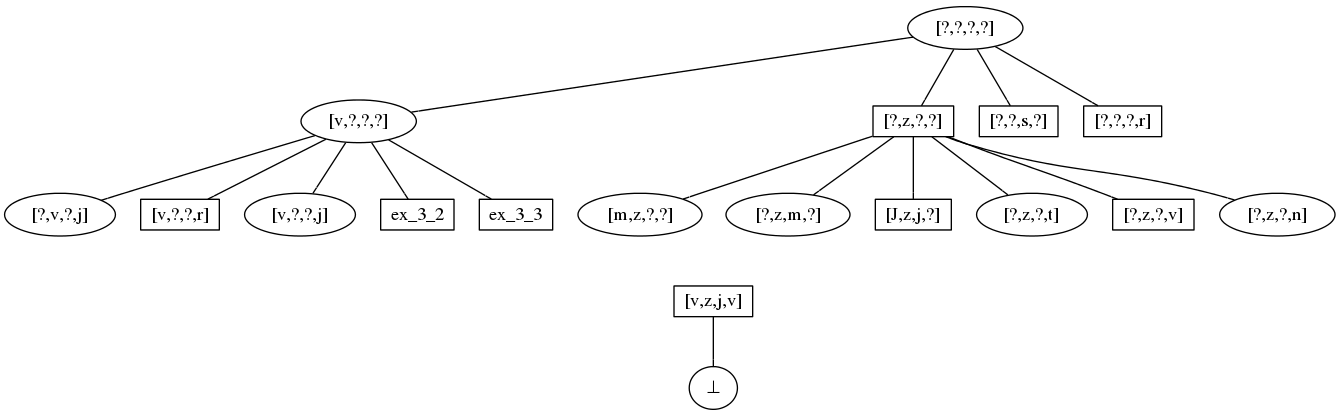
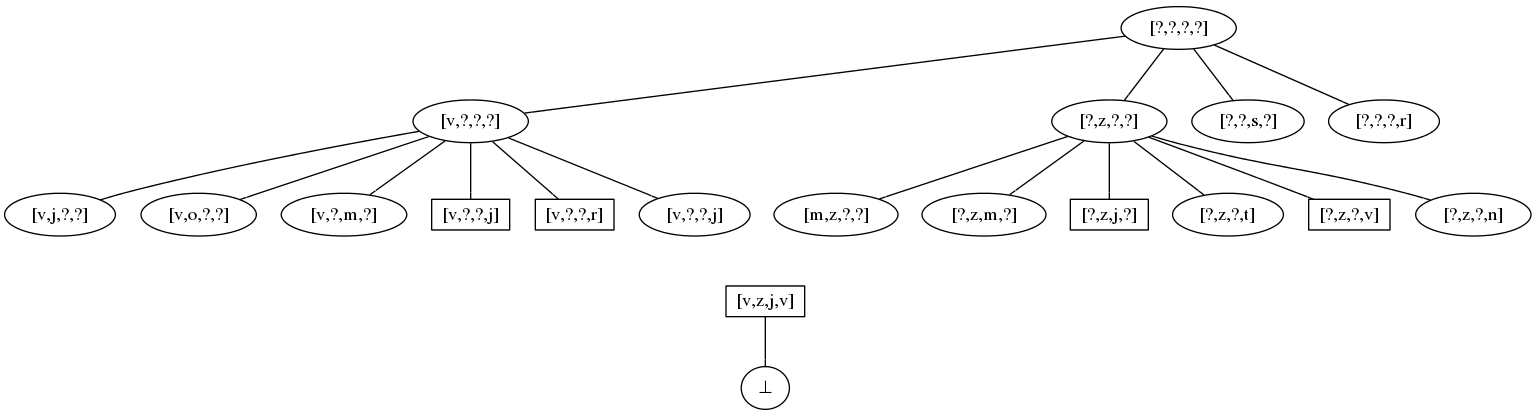
corrected question 2

diff --git a/ai_vraag_2.tex b/ai_vraag_2.tex
@@ -25,8 +25,8 @@ geslacht & leeftijd & muziek & sport & beoordeling\\
 vrouw & zelfde & jazz & voetbal & +\\
 man & jonger & pop & joggen & -\\%
 vrouw & ouder & pop & fitness & -\\
-vrouw & zelfde & klassiek & golf & +\\
-vrouw & jonger & latin & tennis & +\\
+vrouw & jonger & klassiek & golf & +\\
+vrouw & zelfde & latin & tennis & +\\
 \hline
 \end{tabular}
 \end{figure}
@@ -97,13 +97,14 @@ Aan het eind van de dag komt er een dame binnen die jonger is dan de cli\"ent, n
 
 \section{Modeloplossing}
 % TODO toevoegen wat S is, wat G is, wat de vormen van de nodes betekenen.
-We voeren het version-spaces algoritme uit op de voorbeelden uit de opgave. We beginnen met het initialiseren van $S$ en $G$. $S$ bevat initieel enkel de hypothese die niets aanvaardt. $G$ daarentegen, bevat de hypothese die alles aanvaardt.
+We voeren het version-spaces algoritme uit op de voorbeelden uit de opgave (zie \ref{versionspaces}). We beginnen met het initialiseren van $S$ en $G$. $S$ bevat initieel enkel de hypothese die met alles inconsistent is. $G$ daarentegen, bevat de hypothese die met alles consistent is.
 \[
 S = \{\bot\}
 \]
 \[
 G = \{[?,?,?,?]\}
 \]
+De hypothesen die in $S$ en $G$ zitten zijn na elke iteratie getekend in een graaf. De graag bestaat uit twee bomen waarvan de bovenste $S$ voorstelt en de onderste $G$. Niet alle hypothesen die getekend zijn zitten echter in $G$ of in $S$. Als een hypothese niet in \'e\'en van de verzamelingen zit wordt het met een ellips afgebeeld. De rechthoekige nodes zitten wel in $G$ of $S$.
 \subsection{Iteratie 1}
 \begin{figure}
 [H]
@@ -113,6 +114,10 @@ G = \{[?,?,?,?]\}
 \includegraphics[scale=0.5]{resources/graphs/iteration_1.png}
 \end{figure}
 Het eerste voorbeeld is een positief voorbeeld. We generaliseren alle hypothesen in $S$ waaraan het voorbeeld niet voldoet. $\bot$ wordt dus gegeneraliseerd naar de hypothese die het voorbeeld precies omvat. Het resultaat zien we in figuur \ref{iter_1}.
+\begin{itemize}
+\item $G = \{[?,?,?,?]\}$
+\item $S = \{[v,z,j,v]\}$
+\end{itemize}
 
 \subsection{Iteratie 2}
 \begin{figure}
@@ -122,18 +127,28 @@ Het eerste voorbeeld is een positief voorbeeld. We generaliseren alle hypothesen
 \label{iter_2}
 \includegraphics[scale=0.5]{resources/graphs/iteration_2.png}
 \end{figure}
-Het volgende voorbeeld is negatief beoordeeld. We specifi\"eren alle hypothesen in $G$ waaraan het voorbeeld voldoet. $[m,o,k,g]$ voldoet aan $[?,?,?,?]$ dus we moeten dit specifi\"eren tot het voorbeeld net niet meer aan die nieuwe hypothese(n) voldoet. We voegen in totaal zes nodes toe onder $[?,?,?,?]$. Nu begint het prunen. We verwijderen $[?,z,?,?]$, $[?,o,?,?]$ en $[?,?,?,f]$ omdat deze hypothesen inconsistent zijn met $[v,z,j,v]$. Een overzicht van deze iteratie zien we in figuur \ref{iter_2}.
-<TODO HIER STAAT EEN FOUT IN DE UITWERKING, BEKIJK DIT OPNIEUW.>
+Het volgende voorbeeld is negatief beoordeeld. We specifi\"eren alle hypothesen in $G$ waaraan het voorbeeld voldoet. $[m,j,p,g]$ voldoet aan $[?,?,?,?]$ dus we moeten dit specifi\"eren tot het voorbeeld net niet meer aan die nieuwe hypothese(n) voldoet. We voegen in totaal zes hypothesen toe onder $[?,?,?,?]$. Nu begint het snoeien. We verwijderen $[?,o,?,?]$ en $[?,?,?,f]$ omdat deze hypothesen inconsistent zijn met $[v,z,j,v]$. Een overzicht van deze iteratie zien we in figuur \ref{iter_2}.
+\begin{itemize}
+\item $G = \{[v,?,?,?],[?,z,?,?],[?,?,s,?],[?,?,?,r]\}$
+\item $S = \{[v,z,j,v]\}$
+\item Gesnoeid: $[?,o,?,?],[?,?,?,f]$
+\end{itemize}
 
 \subsection{Iteratie 3}
 \begin{sidewaysfigure}
 \centering
 \caption{Iteratie 3}
 \label{iter_3}
-\includegraphics[scale=0.4]{resources/graphs/iteration_3.png}
+\includegraphics[scale=0.35]{resources/graphs/iteration_3.png}
 \end{sidewaysfigure}
-Voorbeeld $3$ is opnieuw negatief beoordeeld. We voeren opnieuw de bovenstaande procedure uit. Deze keer wordt er weer veel verwijderd zodat er uiteindelijk enkel $[v,z,?,?]$ overblijft. $[v,?,s,?]$ is wel consistent met $[v,z,j,v]$, maar het is een specificatie van $[?,?,s,?]$, en dus redundant. Zie figuur \ref{iter_3} voor het volledige overzicht van deze iteratie.
+Voorbeeld $3$ is opnieuw negatief beoordeeld. We voeren opnieuw de bovenstaande procedure uit. Deze keer worden er weer een aantal hypothesen gesnoeid, maar we kunnen nu ook enkele hypothesen verwijderen omdat ze redundant zijn. $[?,z,j,?]$ en $[?,z,?,v]$ zijn respectievelijk specificaties van $[?,?,s,?]$ en $[?,?,?,r]$ en kunnen daarom ook verwijderd worden uit $G$. Zie figuur \ref{iter_3} voor het volledige overzicht van deze iteratie.
+\begin{itemize}
+\item $G = \{[?,v,?,j],[v,?,?,r],[?,z,j,?],[?,z,?,v]\}$
+\item $S = \{[v,z,j,v]\}$
+\item Gesnoeid: $[v,j,?,?]$, $[v,o,?,?]$, $[v,?,m,?]$, $[v,?,?,j]$, $[m,z,?,?]$, $[?,z,m,?]$, $[?,z,?,t]$,
 
+$[?,z,?,n]$ en $[?,z,j,?]$, $[?,z,?,v]$
+\end{itemize}
 \subsection{Iteratie 4}
 \begin{figure}
 [H]
@@ -143,7 +158,10 @@ Voorbeeld $3$ is opnieuw negatief beoordeeld. We voeren opnieuw de bovenstaande 
 \includegraphics[scale=0.5]{resources/graphs/iteration_4.png}
 \end{figure}
 Het volgende voorbeeld $4$ is een tweede voorbeeld dat positief beoordeeld is. We generaliseren $[v,s,j,v]$ tot een hypothese die ook het nieuwe voorbeeld omvat. Hiervoor zijn twee mogelijkheden die we beide toevoegen zoals beschreven in figuur \ref{iter_4}.
-
+\begin{itemize}
+\item $G = \{[?,v,?,j],[v,?,?,r],[?,z,j,?],[?,z,?,v]\}$
+\item $S = \{[v,?,s,r],[v,?,s,a]\}$
+\end{itemize}
 \subsection{Iteratie 5}
 \begin{figure}
 [H]
@@ -152,13 +170,22 @@ Het volgende voorbeeld $4$ is een tweede voorbeeld dat positief beoordeeld is. W
 \label{iter_5}
 \includegraphics[scale=0.5]{resources/graphs/iteration_5.png}
 \end{figure}
-In iteratie 5 behandelen we opnieuw een voorbeeld dat negatief beoordeeld is. Deze keer worden er heel veel nodes toegevoegd. De meeste ervan worden verwijderd, om verschillende redenen. $[?,?,s,n]$ is een specificatie van $[?,?,?,n]$ en $[?,?,?,n]$ wordt verwijderd omdat het inconsistent is met $[v,?,s,a]$. De voledige beschrijving staat in figuur \ref{iter_5}. Het uiteindelijke resutaat is beschreven in figuur.
+In iteratie 5 behandelen we ten slotte nog een positief voorbeeld. Deze keer wordt er maar \'e\'en hypothese toegevoegd en deze wordt meteen al weer verwijderd omdat ze een generalisatie is van $[v,?,s,r]$ en dus redundant is. De beschrijving van deze iteratie is te vinden in figuur \ref{iter_5}. Het resultaat van het version spaces algoritme zien we in figuur \ref{resultaat}.
+\begin{itemize}
+\item $G = \{[?,v,?,j],[v,?,?,r],[?,z,j,?],[?,z,?,v]\}$
+\item $S = \{[v,?,s,r],[v,?,s,a]\}$
+\item Gesnoeid: $[v,?,s,?]$
+\end{itemize}
+\begin{figure}
+[H]
+\centering
+\caption{Resultaat}
+\label{resultaat}
+\includegraphics[scale=0.5]{resources/graphs/resultaat.png}
+\end{figure}
 
 
 \subsection{beslissingsprocedure}
 De dame die aan het eind van de dag binnenkomt wordt als $[v,j,j,j]$ gecategoriseerd.
-We kijken nu naar $S\cup G$ en zien dat deze persoon aan drie hypothesen voldoet en niet aan de tien andere. Als we ervan uitgaan dat elke hypothese evenveel waard is kunnen we het besluit als volgt simuleren.
-\begin{center}
-Deze dame zal met een kans van $\frac{3}{10+3} = 23,08 \%$ goedgekeurd worden door de gegeven client.
-\end{center}
+We kijken nu naar $S\cup G$ en zien dat deze persoon aan \'e\'en hypothesen voldoet en niet aan de vijf andere. Als we ervan uitgaan dat elke hypothese evenveel waard is kunnen we besluiten dat de cli\"ent deze dame met een grotere kans zal afkeuren dan aanvaarden.
 \end{document}
